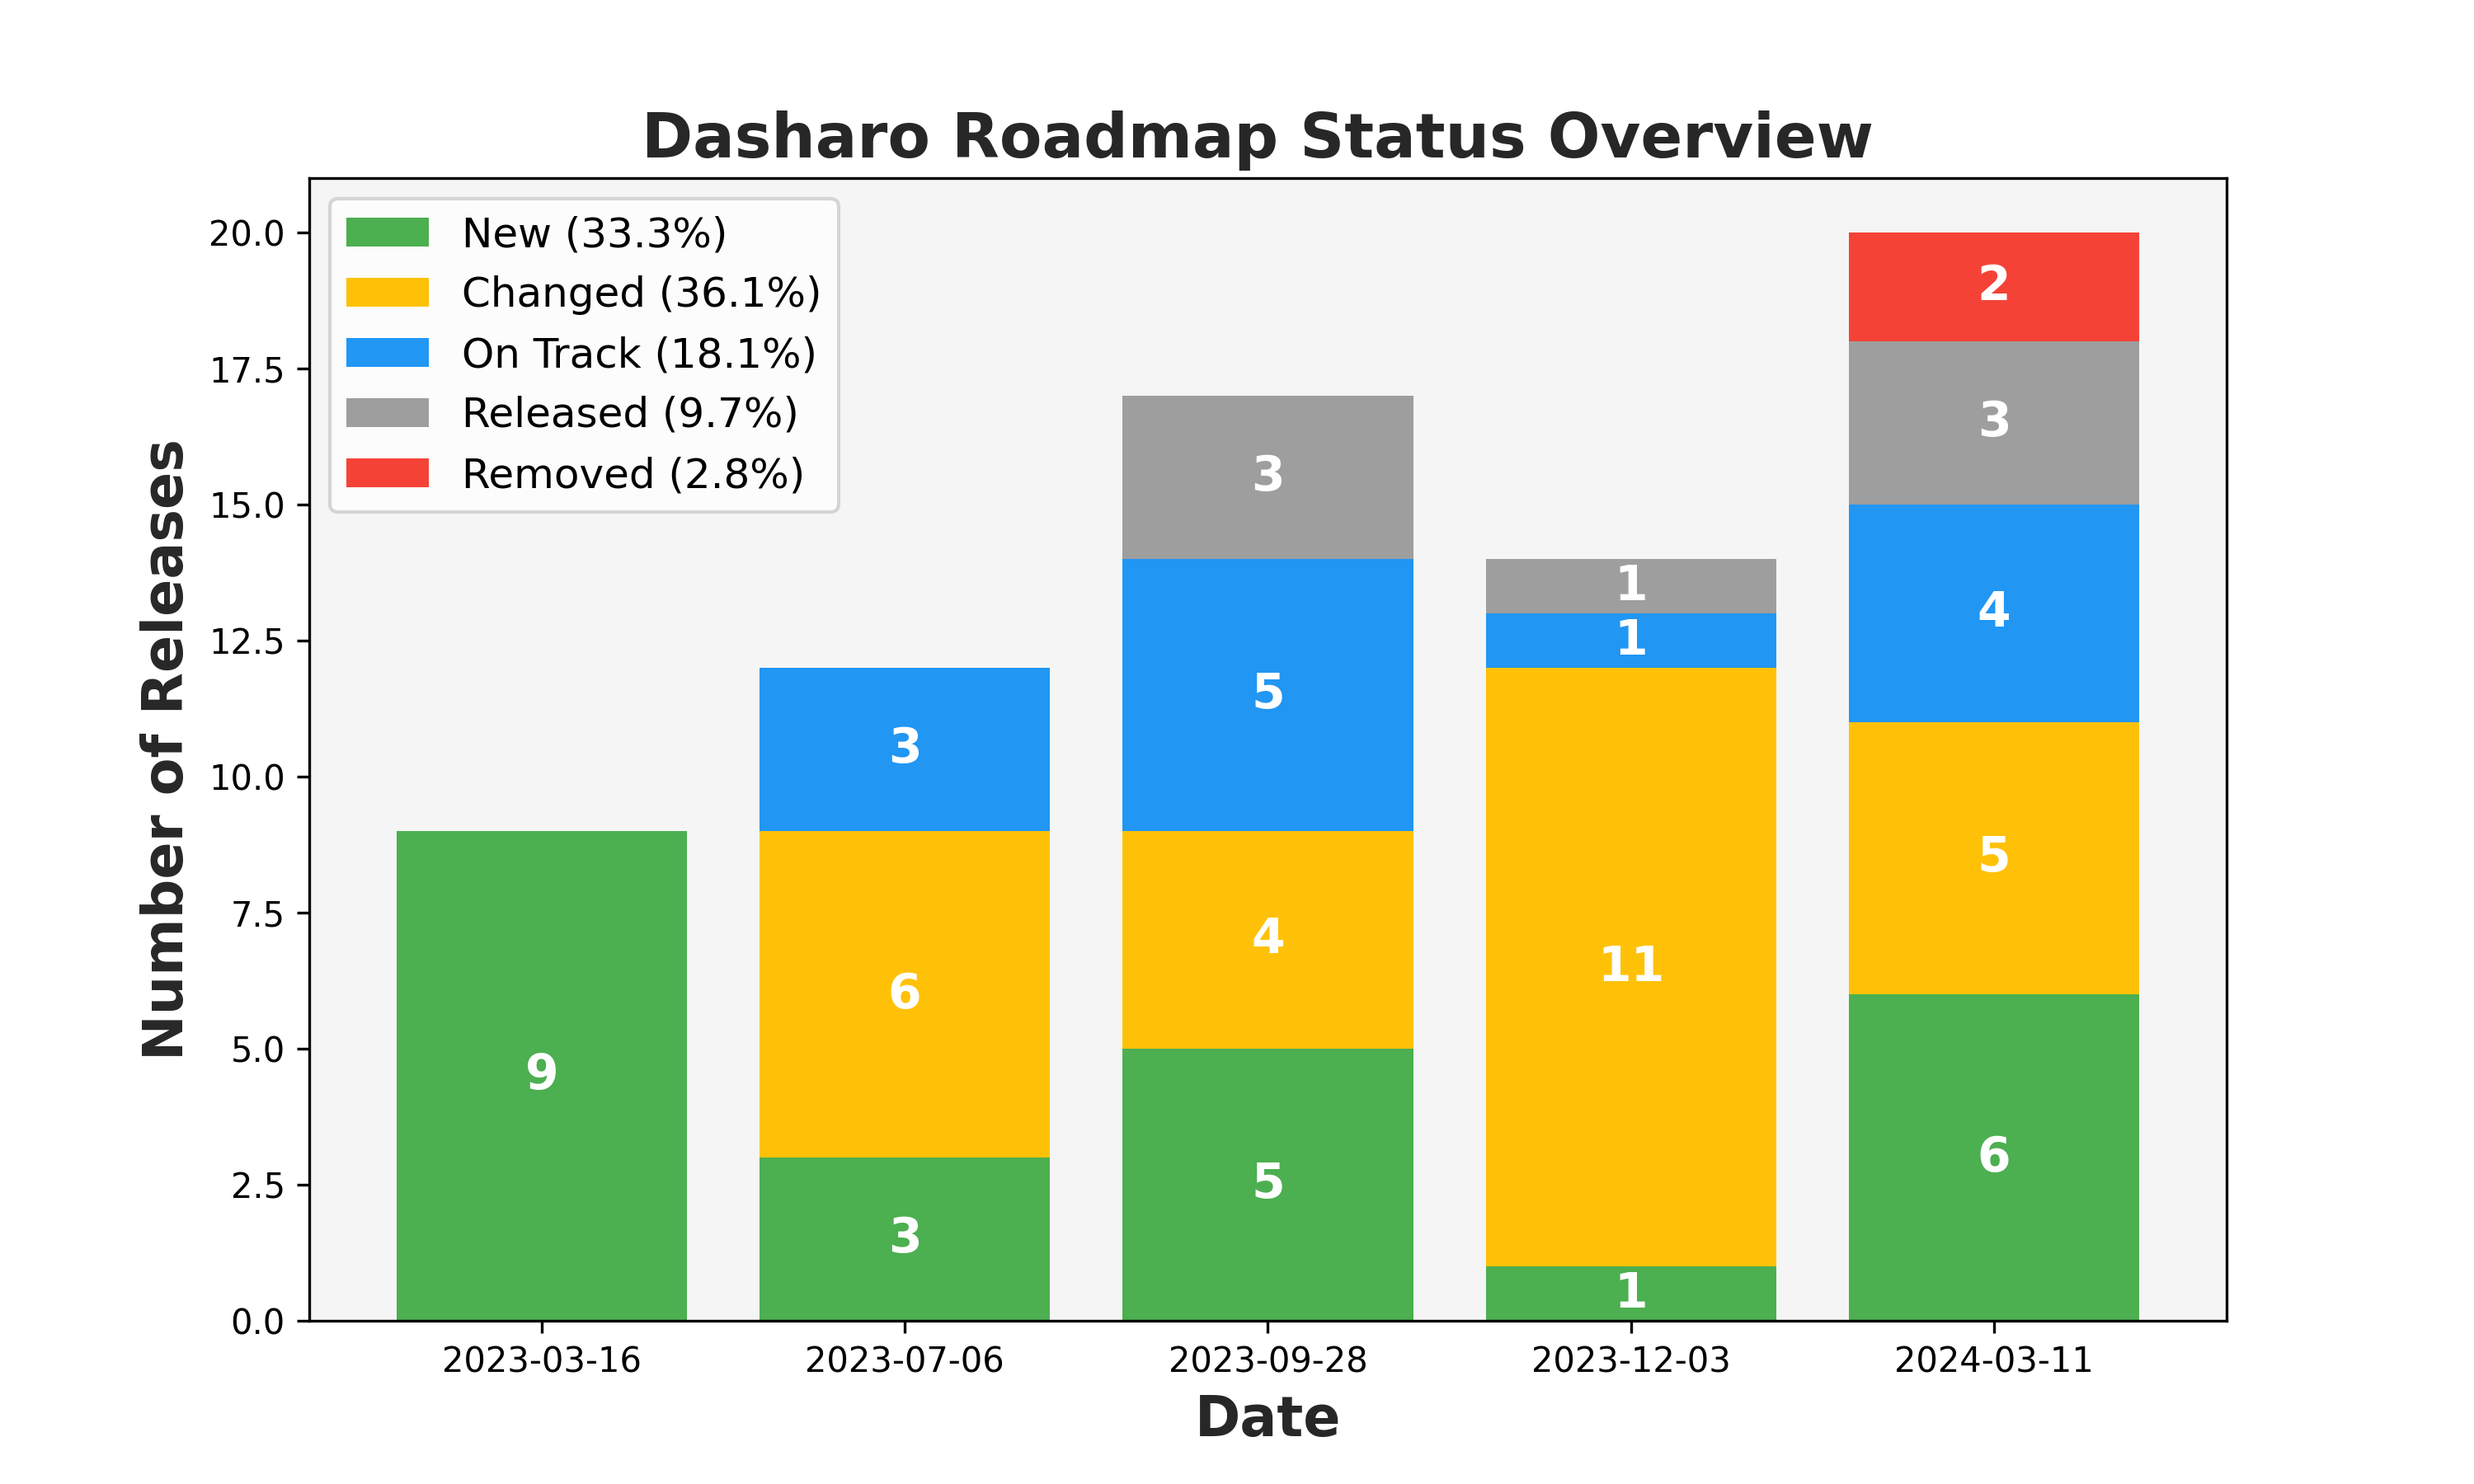
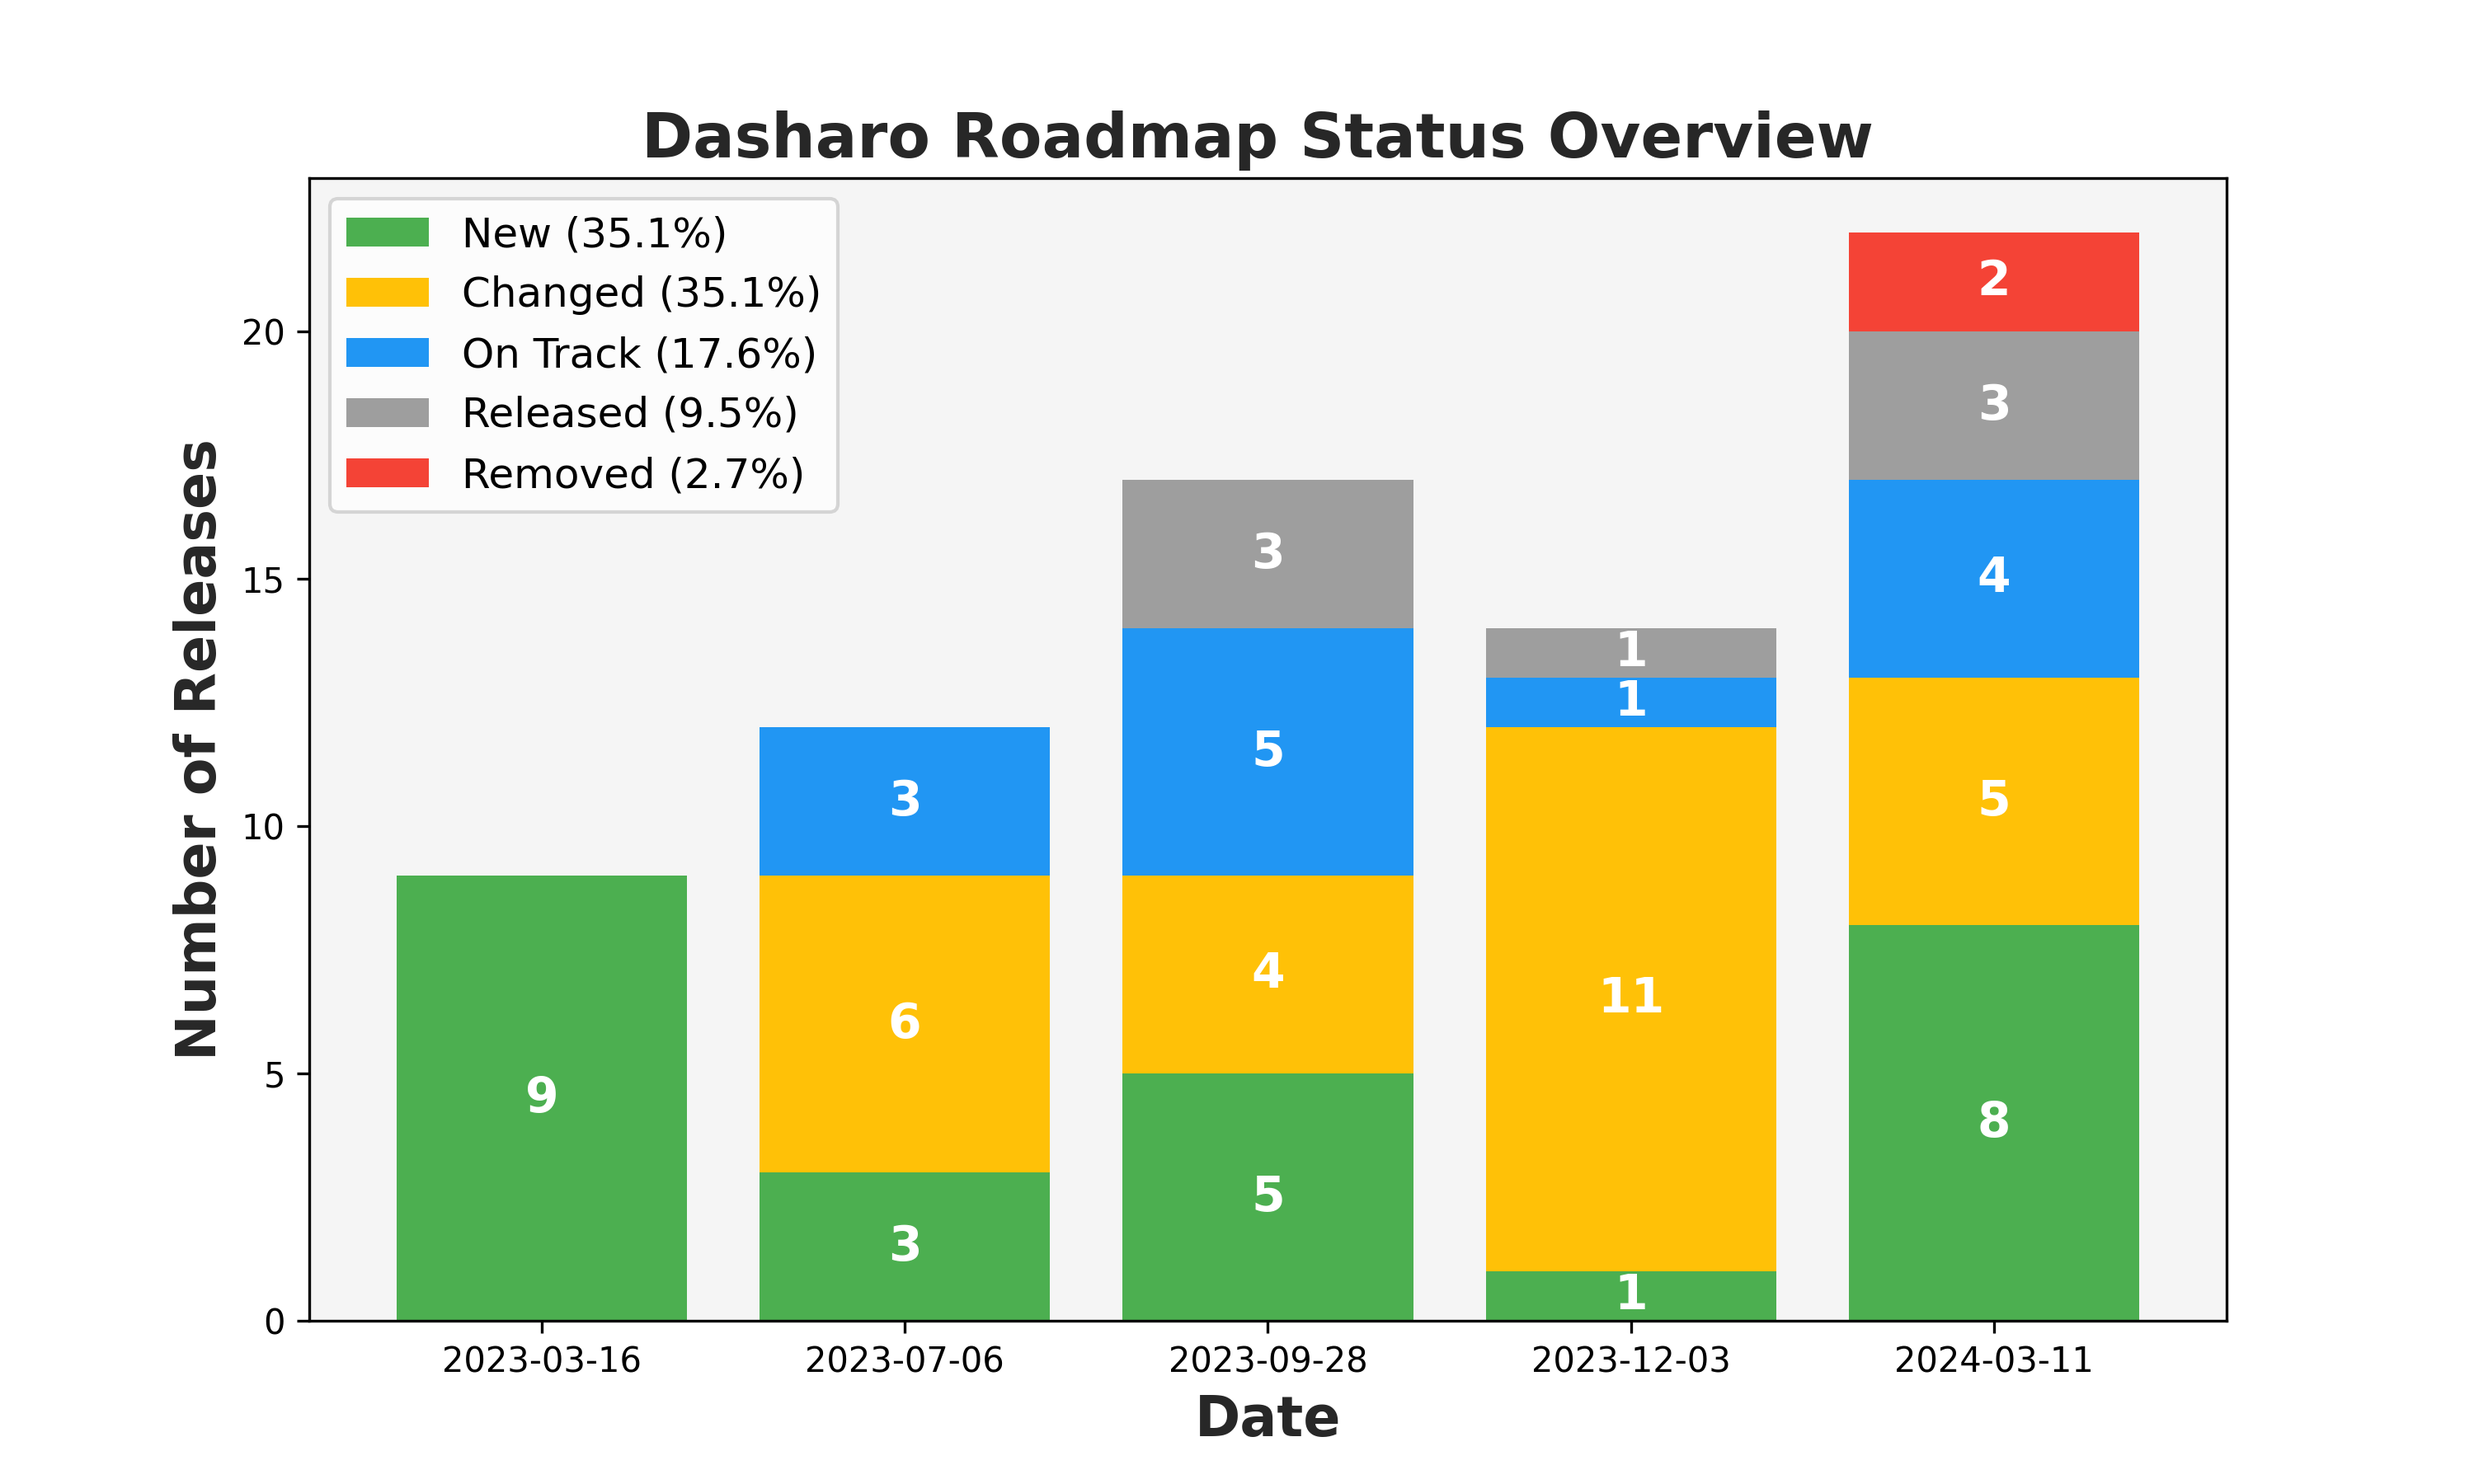
dasharo_roadmap: introduce changes to z690 and z790

diff --git a/diagrams/dasharo_roadmap.py b/diagrams/dasharo_roadmap.py
@@ -145,16 +145,18 @@ roadmap.save(f"img/dcs_desktop_dell_roadmap_{version}.png")
 roadmap = Roadmap(1600, 1000, colour_theme="diagrams/dasharo.json", show_marker=False)
 roadmap.set_title("Dasharo Desktop Roadmap")
 roadmap.set_subtitle("subject to change")
-roadmap.set_timeline(TimelineMode.QUARTERLY, start="2023-10-01", number_of_items=4)
+roadmap.set_timeline(TimelineMode.QUARTERLY, start="2024-01-01", number_of_items=4)
 roadmap.add_logo("img/dasharo_logo_white.png", "top-right", 140, 140)
 
 msi_z690 = roadmap.add_group("MSI PRO Z690-A v1.1.3")
-msi_z690.add_task("Validation", "2023-10-01", "2023-11-15", style="rounded", fill_colour="#34A853", font_size=23)
-msi_z690.add_task("DES Release", "2023-11-16", "2023-12-31", style="rounded", fill_colour="#FD7E14")
+msi_z690.add_task("Validation", "2024-01-01", "2023-02-14", style="rounded", fill_colour="#34A853", font_size=23)
+msi_z690.add_task("DES Release", "2024-02-15", "2024-03-31", style="rounded", fill_colour="#FD7E14")
+msi_z690_114 = roadmap.add_group("MSI PRO Z690-A v1.1.4")
+msi_z690_114.add_task("DES Release", "2024-07-01", "2024-09-30", style="rounded", fill_colour="#FD7E14")
 
 msi_z690_dcr = roadmap.add_group("MSI PRO Z690-A v1.2.0")
-msi_z690_dcr.add_task("Validation", "2024-01-01", "2024-03-31", style="rounded", fill_colour="#34A853")
-msi_z690_dcr.add_task("Community Release", "2024-04-01", "2024-06-30", style="rounded", fill_colour="#ADD8E6")
+msi_z690_dcr.add_task("Validation", "2024-07-01", "2024-09-30", style="rounded", fill_colour="#34A853")
+msi_z690_dcr.add_task("Community Release", "2024-10-01", "2024-12-30", style="rounded", fill_colour="#ADD8E6")
 
 roadmap.set_footer(f"Dasharo Community Support Roadmap | {date} ({version}) | CC-BY-SA-4.0")
 roadmap.draw()
@@ -164,16 +166,18 @@ roadmap.save(f"img/dcs_desktop_msi_z690_roadmap_{version}.png")
 roadmap = Roadmap(1600, 1000, colour_theme="diagrams/dasharo.json", show_marker=False)
 roadmap.set_title("Dasharo Desktop Roadmap")
 roadmap.set_subtitle("subject to change")
-roadmap.set_timeline(TimelineMode.QUARTERLY, start="2023-10-01", number_of_items=4)
+roadmap.set_timeline(TimelineMode.QUARTERLY, start="2023-10-01", number_of_items=5)
 roadmap.add_logo("img/dasharo_logo_white.png", "top-right", 140, 140)
 
 msi_z790 = roadmap.add_group("MSI PRO Z790-P v0.9.1")
 msi_z790.add_task("Validation", "2023-10-01", "2023-11-15", style="rounded", fill_colour="#34A853", font_size=23)
 msi_z790.add_task("DES Release", "2023-11-16", "2023-12-31", style="rounded", fill_colour="#FD7E14")
+msi_z790_092 = roadmap.add_group("MSI PRO Z790-P v0.9.2")
+msi_z790_092.add_task("DES Release", "2024-07-01", "2024-09-30", style="rounded", fill_colour="#FD7E14")
 
 msi_z790_dcr = roadmap.add_group("MSI PRO Z790-P v1.0.0")
-msi_z790_dcr.add_task("Validation", "2024-01-01", "2024-03-31", style="rounded", fill_colour="#34A853", font_size=23)
-msi_z790_dcr.add_task("Community Release", "2024-04-01", "2024-06-30", style="rounded", fill_colour="#ADD8E6")
+msi_z790_dcr.add_task("Validation", "2024-07-01", "2024-09-30", style="rounded", fill_colour="#34A853", font_size=23)
+msi_z790_dcr.add_task("Community Release", "2024-10-01", "2024-12-30", style="rounded", fill_colour="#ADD8E6")
 
 roadmap.set_footer(f"Dasharo Community Support Roadmap | {date} ({version}) | CC-BY-SA-4.0")
 roadmap.draw()

diff --git a/diagrams/dasharo_roadmap_states.py b/diagrams/dasharo_roadmap_states.py
@@ -34,7 +34,7 @@ changed["2023-12-03"]  = 11
 ontrack["2023-12-03"]  = 1
 released["2023-12-03"]  = 1
 removed["2023-12-03"]  = 0
-new["2024-03-11"]  = 6
+new["2024-03-11"]  = 8
 changed["2024-03-11"]  = 5
 ontrack["2024-03-11"]  = 4
 released["2024-03-11"]  = 3

diff --git a/dasharo_roadmap.md b/dasharo_roadmap.md
@@ -43,7 +43,19 @@ the program's development, but is not a guarantee of specific timelines or
 outcomes. For more information on release candidates or release dates, please
 contact the Dasharo Team directly._
 
-???
+---
+
+# Dasharo Roadmap History
+
+* For those watching this presentation first time we really encourage to look
+  at past videos to get better context and understanding of the format.
+  * [DUG#4](https://www.youtube.com/live/EN5rBAAOdOk?feature=shared&t=3973),
+    [DUG#3](https://www.youtube.com/live/xHdlDmZVVkI?feature=shared&t=8700),
+    [DUG#2](https://www.youtube.com/live/ZyctrnJNTPc?feature=shared&t=3395),
+    [DUG#1](https://www.youtube.com/live/fUfjWyljKNs?feature=shared&t=795)
+* We improve format of presentation every quarter.
+* This time we introduced statistics about our planning and execution effort.
+
 
 ---
 
@@ -268,10 +280,10 @@ TODO: think how to improve presentation of all those combinations on roadmap
 <img src="/img/dcs_desktop_msi_z690_roadmap_v0.5.png" width="900px" style="margin-left:-36px;margin-top:-40px">
 ]
 
+???
+
 - [v1.1.3](https://docs.dasharo.com/variants/msi_z690/releases/#v113-2024-01-22) was released according to plan. Hardware going in unbotanium mode.
 - Community release has low priority because of other activities.
-
-???
 
 - DUG#1
   - (NEW) MSI Z690-A v1.1.2 planned for Q3'23
@@ -292,6 +304,7 @@ TODO: think how to improve presentation of all those combinations on roadmap
     - release date changed to Q2'24 (+1)
 - DUG#5
   - (RELEASED) MSI Z690-A v1.1.3 planned for Q4'23
+  - (NEW) MSI Z690-A v1.1.4 planned for Q3'24
   - (ON TRACK) MSI Z690-A v1.2.0 planned for Q1'24
 
 ---
@@ -302,10 +315,11 @@ TODO: think how to improve presentation of all those combinations on roadmap
 <img src="/img/dcs_desktop_msi_z790_roadmap_v0.5.png" width="900px" style="margin-left:-36px;margin-top:-40px">
 ]
 
-- [v0.9.1]() was released according to plan.
-- Community release has low priority because of other activities.
-
 ???
+
+- [v0.9.1](https://docs.dasharo.com/variants/msi_z790/releases/#v091-2024-01-22)
+  was released according to plan.
+- Community release has low priority because of other activities.
 
 - DUG#1
   - (NEW) MSI Z790-P v1.0.0 planned for Q1'24
@@ -323,6 +337,7 @@ TODO: think how to improve presentation of all those combinations on roadmap
   - (ON TRACK) MSI Z790-P v0.9.1 planned for Q4'23
 - DUG#5
   - (RELEASED) MSI Z790-P v0.9.1 planned for Q4'23
+  - (NEW) MSI Z790-P v0.9.2 planned for Q3'24
   - (ON TRACK) MSI Z790-P v1.0.0 planned for Q1'24
 
 ---
@@ -470,15 +485,17 @@ class: center, middle, intro
 # Changelog DUG#5
 
 - (RELEASED) MSI Z690-A v1.1.3 planned for Q4'23
+- (NEW) MSI Z690-A v1.1.4 planned for Q3'24
 - (ON TRACK) MSI Z690-A v1.2.0 planned for Q1'24
 - (RELEASED) MSI Z790-P v0.9.1 planned for Q4'23
+- (NEW) MSI Z790-P v0.9.2 planned for Q3'24
 - (ON TRACK) MSI Z790-P v1.0.0 planned for Q1'24
 - (ON TRACK) MSI Z790-P Dasharo (coreboot+Heads) v0.9.0 planned for Q1'24
 - (REMOVED) ASUS KGPE-D16 v0.5.0 planned for Q2'24
 - (CHANGED) RCS Talos II v0.8.0 planned for Q1'24
   - release date changed to Q2'24 (+1)
 - (ON TRACK) Supermicro X11SSH-TF v0.1.0 planned for Q2'24
-- Summary: 6 new, 5 changed, 4 on track, 3 released, 2 removed (total: 20)
+- Summary: 8 new, 5 changed, 4 on track, 3 released, 2 removed (total: 22)
 
 ---
 
